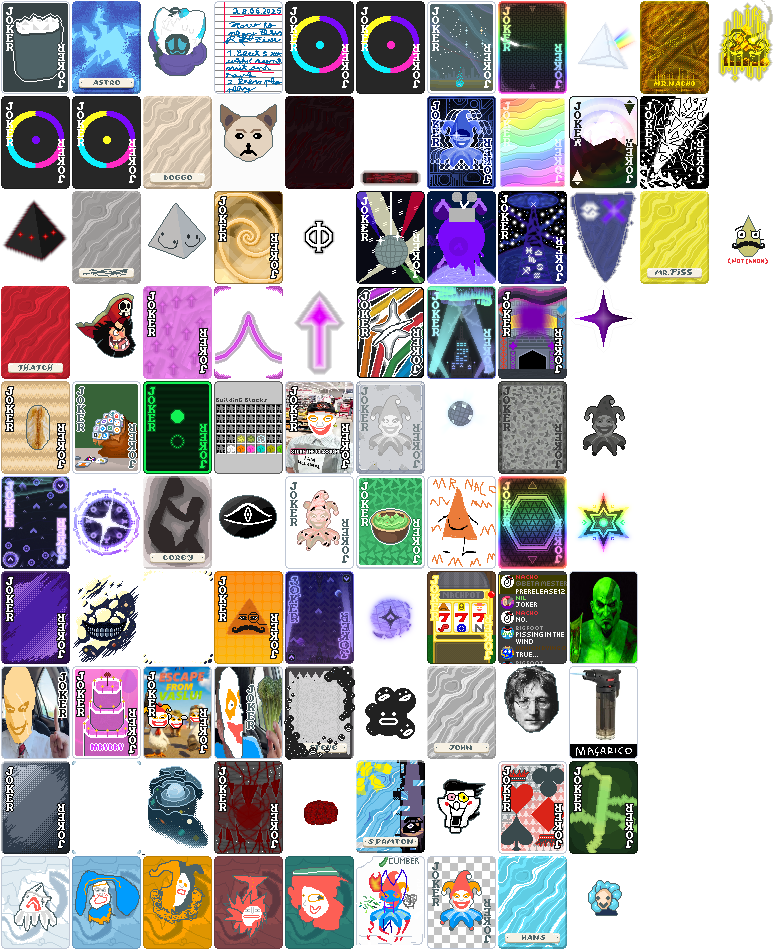
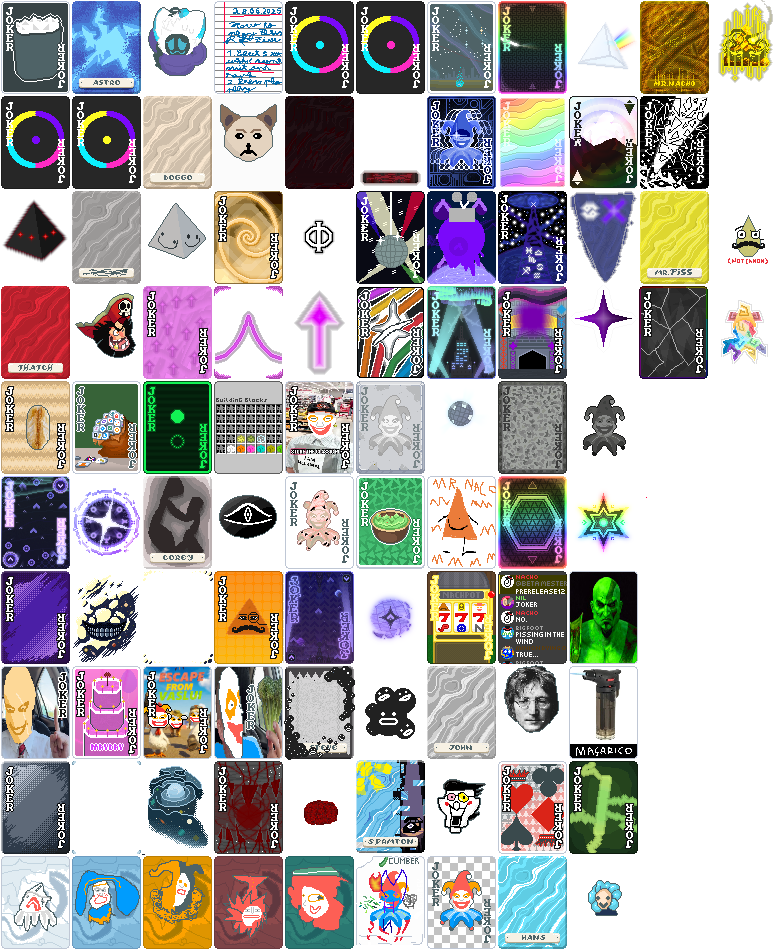
1.4.0

Changed region(s): [[0.798, 0.2747, 0.9821, 0.3968]]

diff --git a/README.md b/README.md
@@ -1,10 +1,12 @@
 ![Banner](https://codeberg.org/BalatroMayhem/Mayhem/raw/branch/main/repoassets/banner.png)
 # Mayhem
-Big Balatro content mod based on chains of fusions with Jokers. Each fusion results in a much stronger Joker, leading up to the endgame where you can score incomprehensibly high numbers with scaling hyperoperators.
+A Balatro content mod designed around incremental progression inside one run. 
 
-Yeah this mod is not vanilla-friendly. 
+Mayhem is an expansive content mod which, among many others, introduces a fusion system. 2 specific Jokers can be combined into a new Joker that is much greater than the sum of its parts, as long as all of the prerequisites have been met. This is done multiple times, gradually upgrading your Joker and reaching a new magnitude of incomprehensible numbers with each fusion. 
 
-The catch is that Mayhem is not a free win button. You can obviously soar past Ante 8, but that's not winning. Mayhem runs are supposed to take a ludicrous amount of time and getting past Ante 8 is just a stage of your run. Think of it like an incremental game, except it's a single run of Balatro.
+The Blinds will also catch up eventually and fusing is not exactly easy. 
+
+This mod turns Balatro on its head. This is no longer about reaching Ante 8 and winning the run, your goal is now to become as strong as possible. Many systems are set in place to make the progression incremental, there will keep being a "next upgrade" for a very long time. 
 
 ![Screenshot](https://codeberg.org/BalatroMayhem/Mayhem/raw/branch/main/repoassets/screenshot.png)
 
@@ -12,7 +14,7 @@ That is actual gameplay footage.
 
 ** **
 
-# SEIZURE AND AUDIO WARNING
+# EPILEPSY AND AUDIO WARNING
 Mayhem has a bunch of effects for scoring really high numbers that may trigger epileptic reactions. If you are prone to flashing lights and shaking things, disable some settings in the mod's Effects tab.
 
 Mayhem also has custom operation sounds which get very intense. If your headphones/speakers start distorting and/or the noises are unpleasant, you can disable them in the Audio tab or toggle some less intense versions of those sounds.
@@ -20,15 +22,67 @@ Mayhem also has custom operation sounds which get very intense. If your headphon
 # Installation
 ### [Video installation guide](https://youtu.be/Ldbd94HM8hg?si=YSJAtWxdds9Tr3dq)
 Mayhem has the following dependencies which must be installed for the mod to work:
-* [Steamodded](https://github.com/Steamodded/smods)
-* [Amulet](https://github.com/frostice482/Amulet)
-* [Noituus](https://codeberg.org/alex343xd/Noituus)
+* [Steamodded](https://github.com/Steamodded/smods) - Core modding API, loader and framework
+* [Amulet](https://github.com/frostice482/Amulet) - Adds support for *very* large, hyperoperational numbers 
+* [Noituus](https://codeberg.org/alex343xd/Noituus) - Stacks identical Consumables and allows you to use most of them in bulk
+
+If this is your first time modding Balatro, check the Wiki on the Steamodded repository for a tutorial on how to set the essentials up.
 
 All of the dependencies on the latest (supported) versions are included in the Dependencies ZIP on every Mayhem release.
 
 Mayhem may conflict with certain content mods. Most popular mods should work, but more obscure and rough mods may cause issues. Cryptid in particular is **NOT** officially supported.
 
-If your game crashes with an error along the lines of ``attempt to index a nil value ("may")``, Mayhem was not able to load, usually due to incorrect/missing dependencies. 
+To actually download Mayhem, navigate to the Releases Tab on this repository and download the pre-packaged ZIP (or TAR.GZ) archive containing the source code. 
+
+[Overflow](https://github.com/lord-ruby/Overflow) can be used in place of Noituus, however this is not officially supported. 
+
+# Contents 
+Mayhem is big and it grows with each update. Here's a rough overview of what this mod adds:
+* The fusion system, which is the quintessential gameplay loop of the mod
+* Over 80 Jokers including the fusions, with many more on their way 
+	* 5 new rarities for all of the fusions, each one tiering on top of the last
+	* Epic Jokers which can appear naturally. Stronger and rarer than Rare Jokers
+	* Paradoxical Jokers which are only obtainable from specific mechanics 
+* Over 200 Consumables. A surplus of Tarots, Planets and Spectrals alongside:
+	* Upside Down versions of all Vanilla Consumables. They can sometimes appear in place of the base Consumable and turn the original Consumable's effect into a downside but with a new, stronger upside 
+	* Yotta Cards. They can rarely replace Consumables of certain types and provide strong, usually scalable bonuses with a downside 
+	* Retro Cards. They give powerful benefits as long as the player has preformed a specific action a specific number of times. Using a Retro Card will permanently increase the requirement for future copies 
+	* Modifier Cards corresponding to nearly all Vanilla and Mayhem modifiers. They give bonuses scaling with the number of cards held in hand with their respective modifier 
+	* Miscellaneous Consumables only obtainable from specific sources
+* Over 15 Decks 
+* Over 50 Vouchers 
+	* Plenty of regular Vouchers alongside a 3rd tier for certain Vouchers (more are on their way!)
+	* Voucher Bundles which redeem multiple random Vouchers 
+	* Special Vouchers which only appear under specific conditions in the shop on top of the existing Vouchers. These are basically meta-upgrades for your run and they unlock some pretty powerful systems and benefits
+* Over 10 Enhancements, Editions and exactly 10 Seals 
+* Over 20 Booster Packs 
+	* Packs for Retro Cards and Modifier Cards 
+	* Voucher Packs exclusive to Endless Mode. You can select 1 of up to 2 random Vouchers to be redeemed 
+	* Fusion Packs containing base, fusable Jokers 
+	* Premium Packs containing playing cards with guaranteed Enhancements, Editions and Seals 
+* Over 15 Tags 
+* Over 40 Boss Blinds 
+	* Tainted versions of most Vanilla Boss Blinds. They appear in Endless Mode if you have defeated the regular counterpart and they pose a much bigger threat 
+* 2 Poker Hands 
+* MANY new systems and mechanics 
+	* Restricting more powerful content to after certain stages of your run. Certain items can only appear in Endless Mode or after obtaining a Transcendent Joker (currently the last fusion tier)
+	* Add Dollars and Score to Poker Hands. You earn their Dollars as money before scoring if you play the hand and the Score is applied after scoring on top the points you initially earned 
+	* Increase the Chips and Mult Poker Hands gain when they are leveled up 
+	* Instability mechanic used by Omniversal Catalyst, a Joker required for many fusions which noticeably increases Blind Sizes while owned 
+	* Transcendence effect which *really* makes the game feel like it's breaking once you start scoring very large numbers 
+	* Store Vouchers and Booster Packs in your Consumable Slots if they are created there
+	* Sell redeemed Vouchers with Reconfigure, a Special Voucher. Their effects will be disabled 
+	* Ways to increase your Card Selection Limit so you can select more than 5 playing cards
+	* Change the Score Operator between your Chips and Mult to change how Score is calculated 
+	* Certain Consumables can be reserved from Booster Packs by default so you can use them later 
+	* Much more interaction with Interest, allowing you to change your Interest and Interest Cap and earn significant amount of money from it even in the late game 
+	* Reroll prices will start increasing dramatically after the shop has been rerolled one too many times 
+	* Blind Sizes will scale up considerably after specific Rounds to keep you on your toes 
+* A large and varied soundtrack alongside many new sound effects and ambiance. Tuned and designed to make the lategame feel almost dream-like and ethereal 
+* Changes or full reworks to certain Vanilla content to streamline the experience 
+* Esoteric references and humor 
+* Random, silly fun facts on the loading screen 
+* Custom main menu and intro cutscene
 
 # Recommended Mods
 Mayhem releases come with a Recommended Mods ZIP which has a plethora of smaller mods that work excellently with Mayhem. These are obviously optional, but they make the experience feel more complete. 
@@ -41,22 +95,20 @@ Mods marked with (CM) enable additional content from Mayhem when used.
 * Galdur: Overhauls the New Run tab to make it more efficient and pleasing when you have a lot of Decks and Stakes 
 * Spotlight: Highlights card area changes, like Joker/Consumable Slot and Hand Size increases
 * Banner: Allows you to disable individual pieces of content
-* BetterTags: Makes identical Tags only display themselves once, stacking them like Noituus, however their order is still preserved
-* BetterIllusion: Fixes the Illusion Voucher, allowing cards in the shop to appear with Seals
+* BetterTags: Visually stacks identical Tags
 * DebugPlus: While intended for mod developers, it is still handy for showing your FPS and allowing you to cheat in cards if you just want to mess around
 * Blueprint: Makes the Blueprint and Brainstorm Jokers display the Joker they're copying
 * Next Ante Preview: Shows a preview of the Blinds in the next Ante at the cash out screen after defeating a Boss Blind
 * Frost's Utils: Optimization and speed utilities 
 * UnBlind: Shows a preview of the current ante in the shop instead of the usual Shop sign
 * Main Menu Tweaks: Changes the buttons on the main menu, grouping the Options and Mods buttons together
-* Lua Patcher: Prevents most crashes
+* Lua Patcher: Prevents certain crashes (disable this if you'd like to hunt for bugs!)
 ### Content
-* Grim (CM): Adds a per-run skill tree with classes that enable specific content
 * Engulf (CM): Allows Planet Cards to appear with Editions which are applied to the Poker Hands they affect
 * Fitxes: Adds Token consumables which give Tags when used
 * Espazio (CM): Adds Blank Consumables which turn into the next consumable of their type that's used while held
 * Spectrum API: Adds the Spectrum hand type, which contains 5 different suits at once
-* Card Sleeves (CM): Adds Sleeves which are equipped on top of decks, analogous to existing decks (eg Yellow Sleeve starts you out with an additional $10). Use the deck with its corresponding Sleeve to unlock a crazier new ability for your Sleeve...
+* Card Sleeves: Adds Sleeves which are equipped on top of decks, analogous to existing decks
 * Finity: Adds Showdown Jokers corresponding to each Finisher Boss Blind, which are obtained after defeating them
 
 # For content creators 
@@ -72,8 +124,10 @@ First of all, thank you. Second of all, here's some things you should keep in mi
 # Links
 * [Credits](https://docs.google.com/document/d/1P53UrzO_xHavnu59BPmQSzwq0ZeTYD1dUHoRvsMqx9w/edit?usp=drivesdk)
 * [Wiki](https://balatromods.miraheze.org/wiki/Mayhem)
-* [Mayhem Docs](https://docs.google.com/document/d/1fxpHe9eeimEFgb8htmr9WFAyqFMfycXNf_Vwx-uh0e4/edit?usp=drivesdk) - Categorized list of EVERY* piece of Mayhem content, planned and implemented
+* [Mayhem Docs](https://docs.google.com/document/d/1uAZP5wL8oYKLyE87YY_eBd1lPOhR1DnYK_GtIj_GagU/edit?usp=drivesdk) - Categorized list of planned Mayhem content
+* [Discord Server](https://discord.gg/esrGbYWHEQ) - The central hub of the Mayhem community. Hang out with fans or myself and be notified for any sort of news regarding the mod
 * [XD Mods OST](https://drive.google.com/file/d/17VVFR3sCJLQNntId2h7nccj7hwmY50_U/view?usp=drivesdk) - Every song from Mayhem and my other mods, implemented or otherwise, labeled properly with bonus tracks, old versions of tracks and Transcendence ambiance
+* [Github Mirror (Unofficial!)](https://github.com/pawPatoes/Mayhem) - I do not maintain this mirror. Expect it to be out of date at times
 
 If you have any questions or problems, feel free to start a discussion thread on this repo or contact me on Discord (@alex343xd).
 
